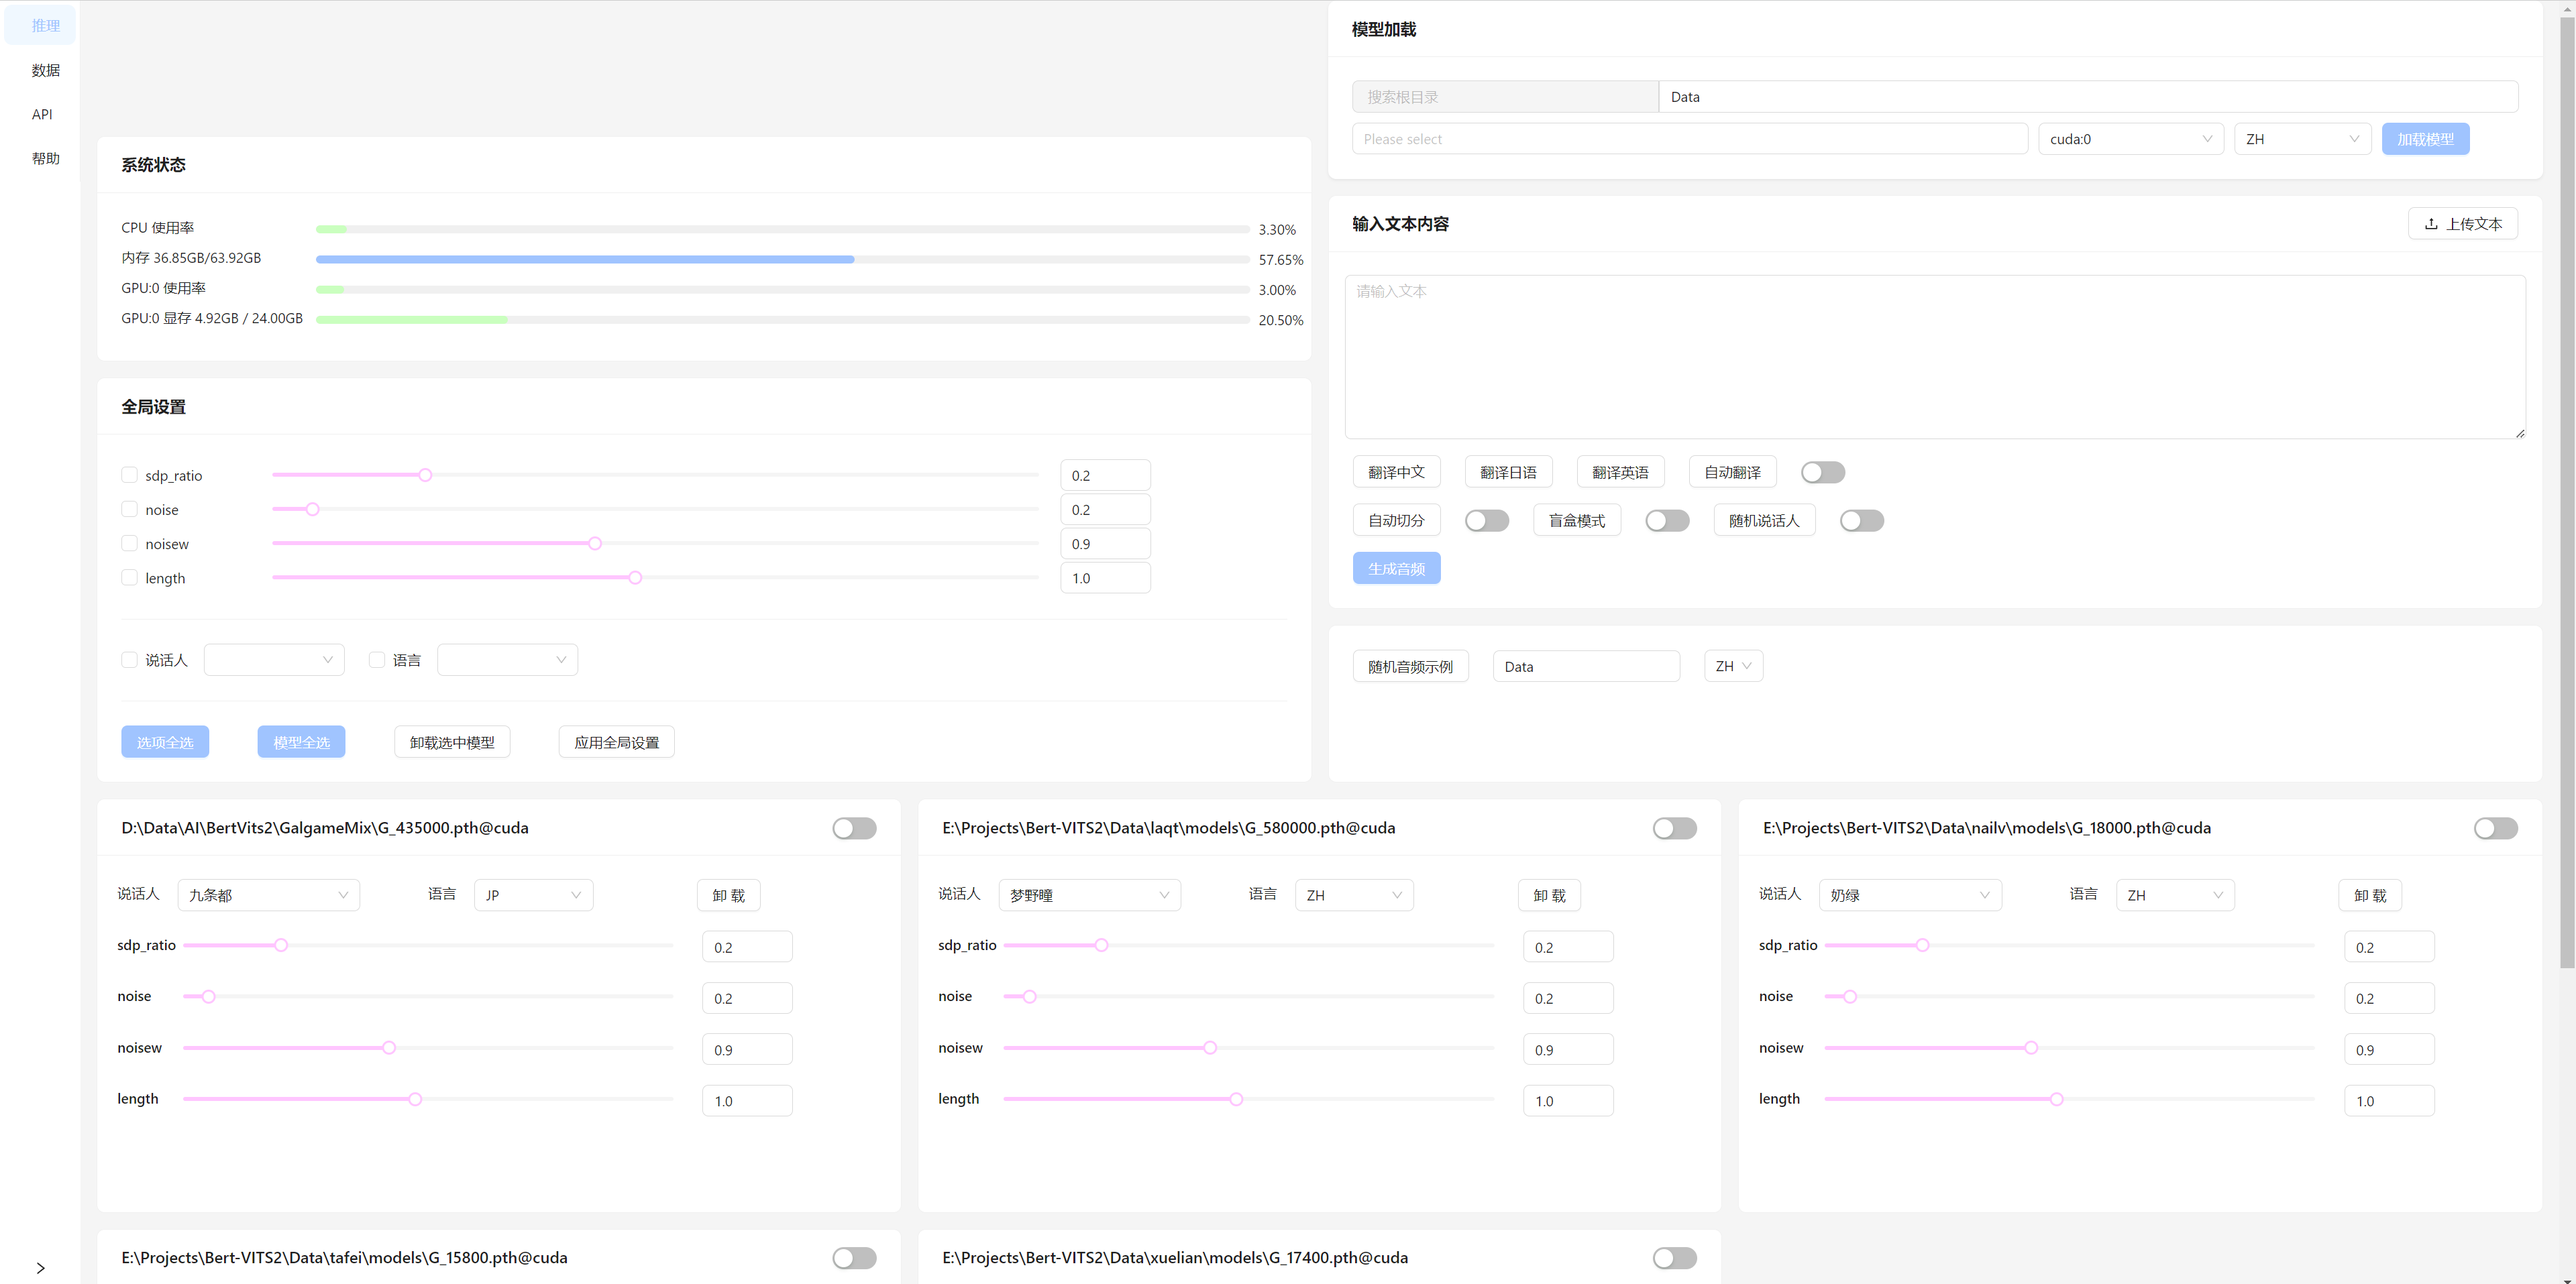
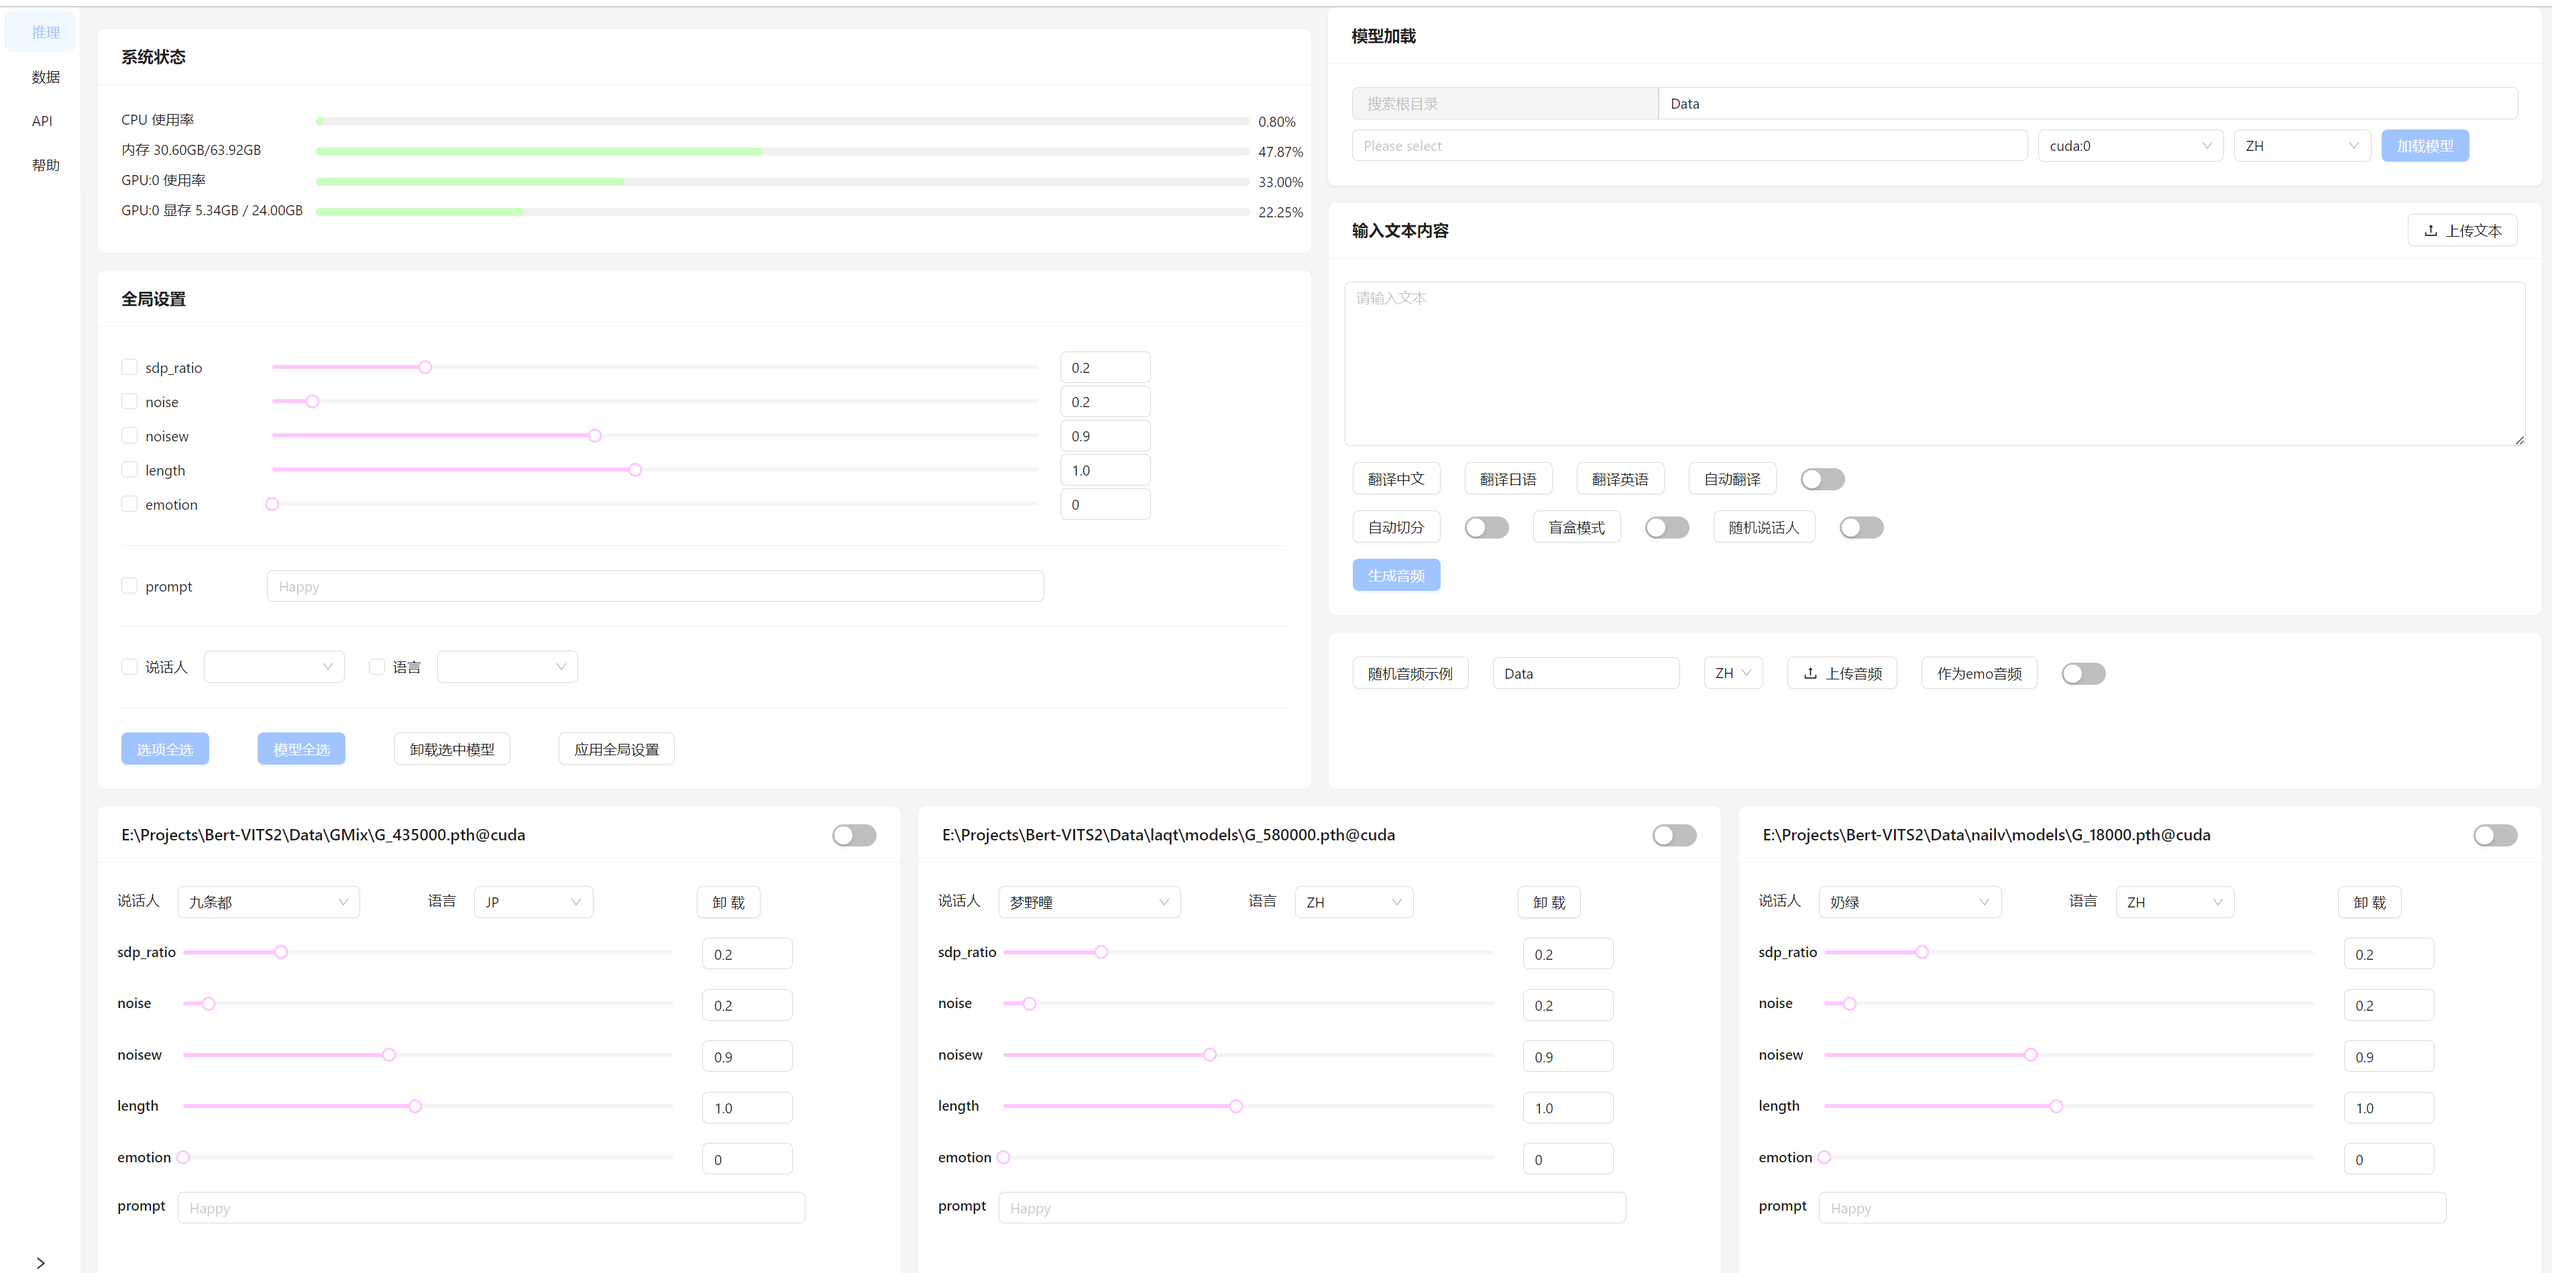
更新README

diff --git a/README.md b/README.md
@@ -16,9 +16,72 @@ BertVits2的前端界面
 + 支持双盲测试：模型卡片自动洗牌并遮盖信息，盲听比较模型效果。
 
 ## 使用方法
++ **请以Release中对应的README.MD为准**
 + 下载Release，并将Release中的`Web`文件夹添加至BertVits2项目根目录
 + 配置`BertVits2`中的`config.yml`中的`server`配置
 + 运行`BertVits2`中的`server_fastapi.py`
 
 
-## 施工中...
+## `BertVits2`版本说明
++ 对应版本`2.2` [release](https://github.com/fishaudio/Bert-VITS2/releases/tag/v2.2)
++ 请将本项目的`release`包解压后复制到`Bert-Vits2`项目根目录并替换所有文件，或者直接拉取[459635 commit](https://github.com/fishaudio/Bert-VITS2/commit/45963d595eb57953a5f6676817d5fb00328d5223)
+
++ 由于没有权限鉴定，请勿将网页服务对外开放。
+
+#### ver 0.7.0 更新
++ 匹配新版本后端接口
++ 支持2.2模型推理。当使用`作为emo音频`选项时，`prompt`会无效。即emo音频的优先级更高。
+
+#### ver 0.6.0 新增/破坏性变更
++ 匹配新版本后端接口
++ 支持2.1模型emo推理
+
+#### ver 0.5.0 新增
++ 添加数据集处理界面
+
+
+#### ver 0.4.1 新增
++ 界面优化
++ 添加了盲选功能
++ 添加了随机说话人功能
+
+#### ver 0.4.0 破坏性变更
++ 音频api改为post，从而实现更长文本的切分生成。不支持`2023/11/9`之前`release`的bertvits
+
+#### ver 0.3.5 新增
++ 添加了自动切分与自动翻译功能。
+
+#### ver 0.3.4 新增
++ 添加了帮助页面
+
+#### ver 0.3.3 新增功能
++ 从训练文件中获取随机音频示例
+
+#### ver 0.3.2 优化
++ 优化模型选择框，较多模型时不再加载卡顿
++ 优化1080p以及2k界面
+
+#### ver 0.3.1 新增功能
++ 模型卡片说话人允许使用搜索选择
+
+#### ver 0.3 新增功能
++ 优化加载模型、卸载模型与推理时的交互，避免重复触发请求。
++ 允许选择模型搜索目录
++ 全局说话人允许使用搜索选择
+
+### 功能说明
+#### ver 0.2.2 修复
++ 状态栏显示修复
+
+#### ver 0.2.1 修复
++ 音频下载文件名修改正确
+
+
+#### ver 0.2 新增功能
++ UI优化
++ 添加全局设置面板
+
+#### ver 0.1.1 新增功能
++ 音频下载，默认命名为`文本@模型名.wav`
++ 侧栏收缩，对于低分辨率更为友好的界面
++ 加载提示
